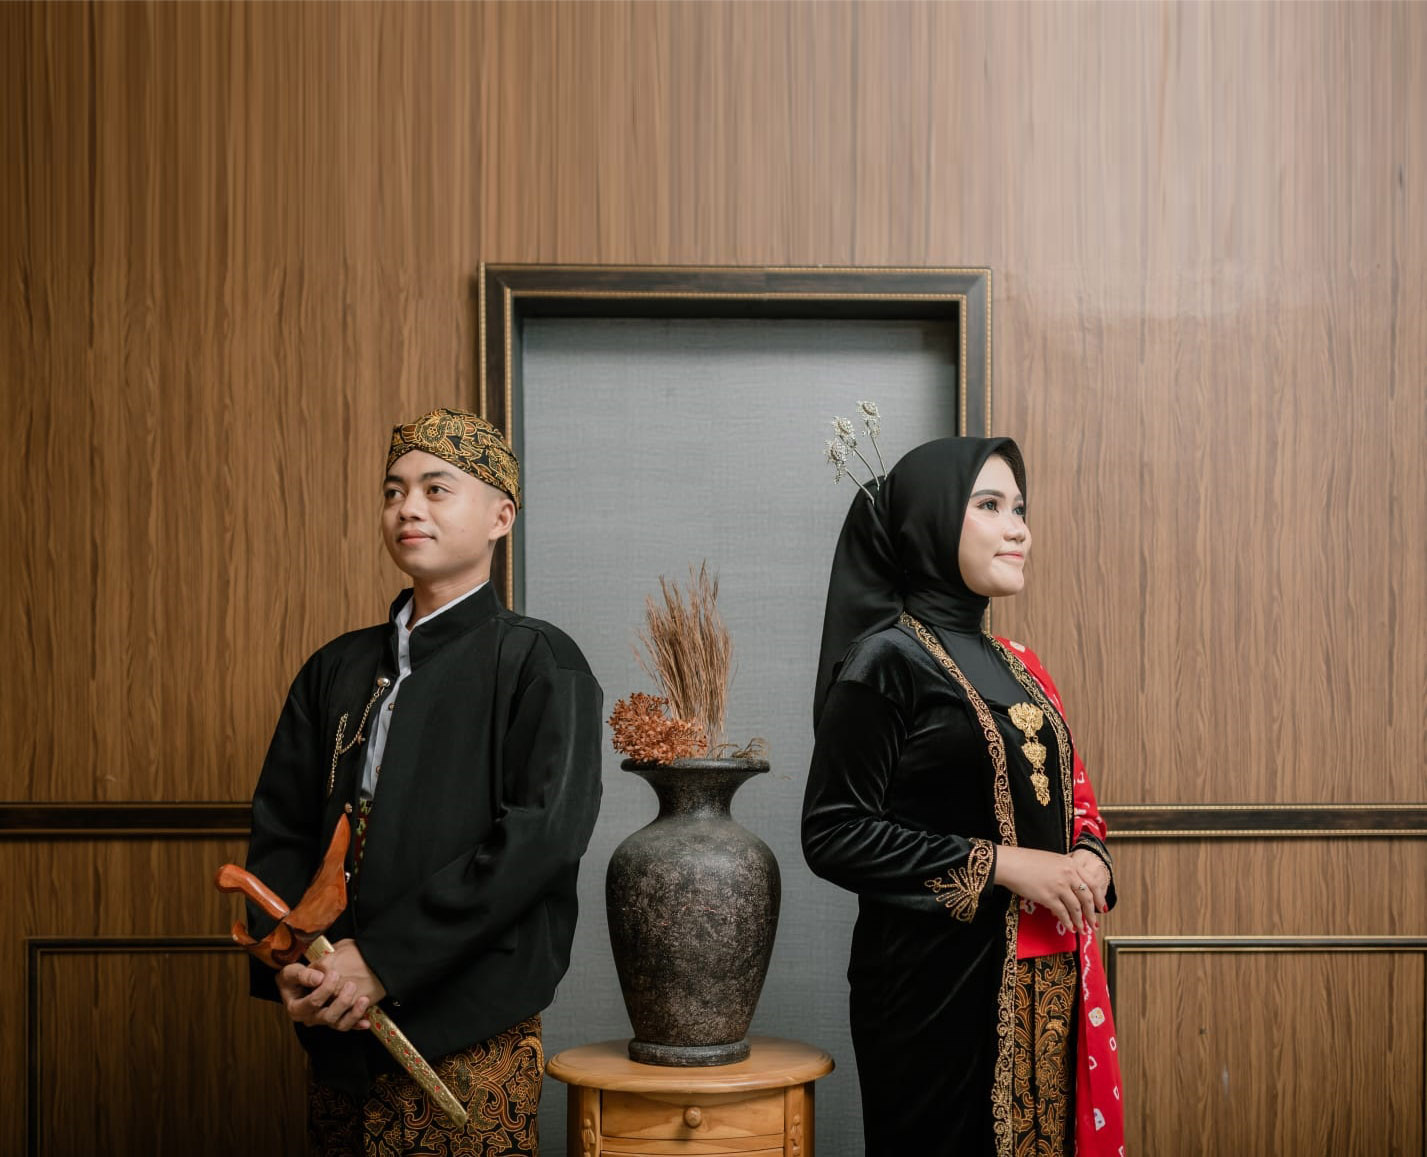
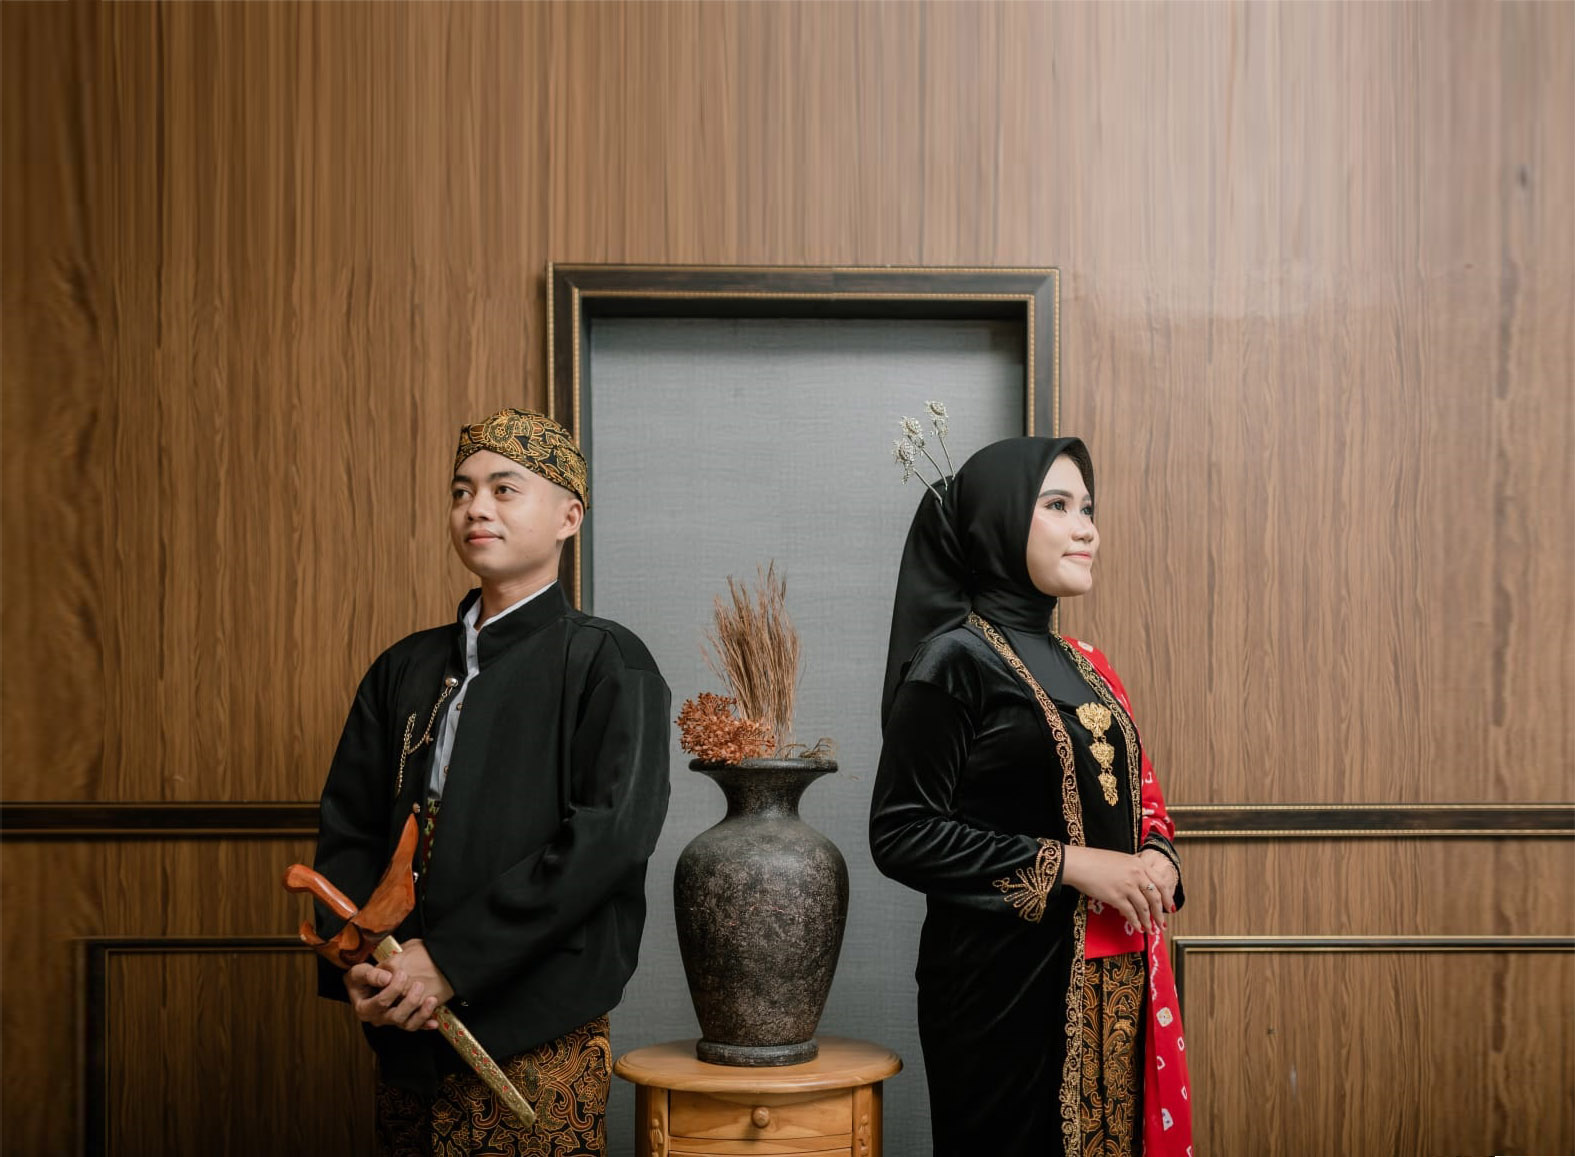
menganti gambar cover

diff --git a/responsive.css b/responsive.css
@@ -18,10 +18,6 @@
     padding: 10rem 0;
   }
 
-  .hero .img-bride .cover {
-    aspect-ratio: 3/3;
-  }
-
   #wave {
     bottom: 245px;
   }
